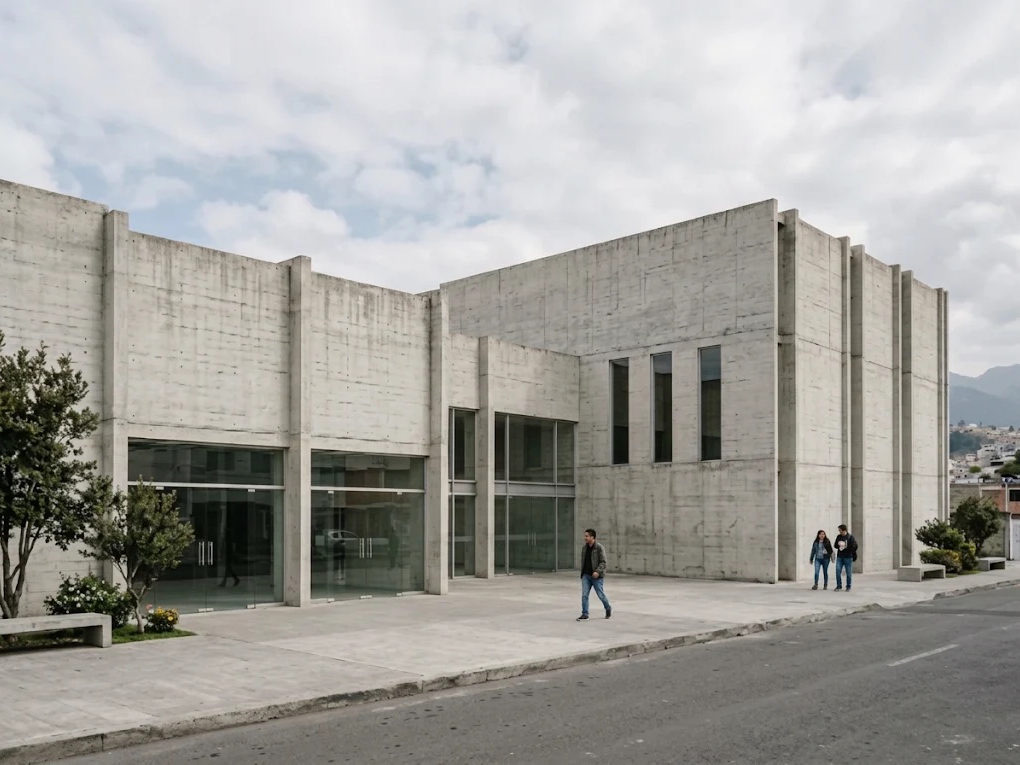
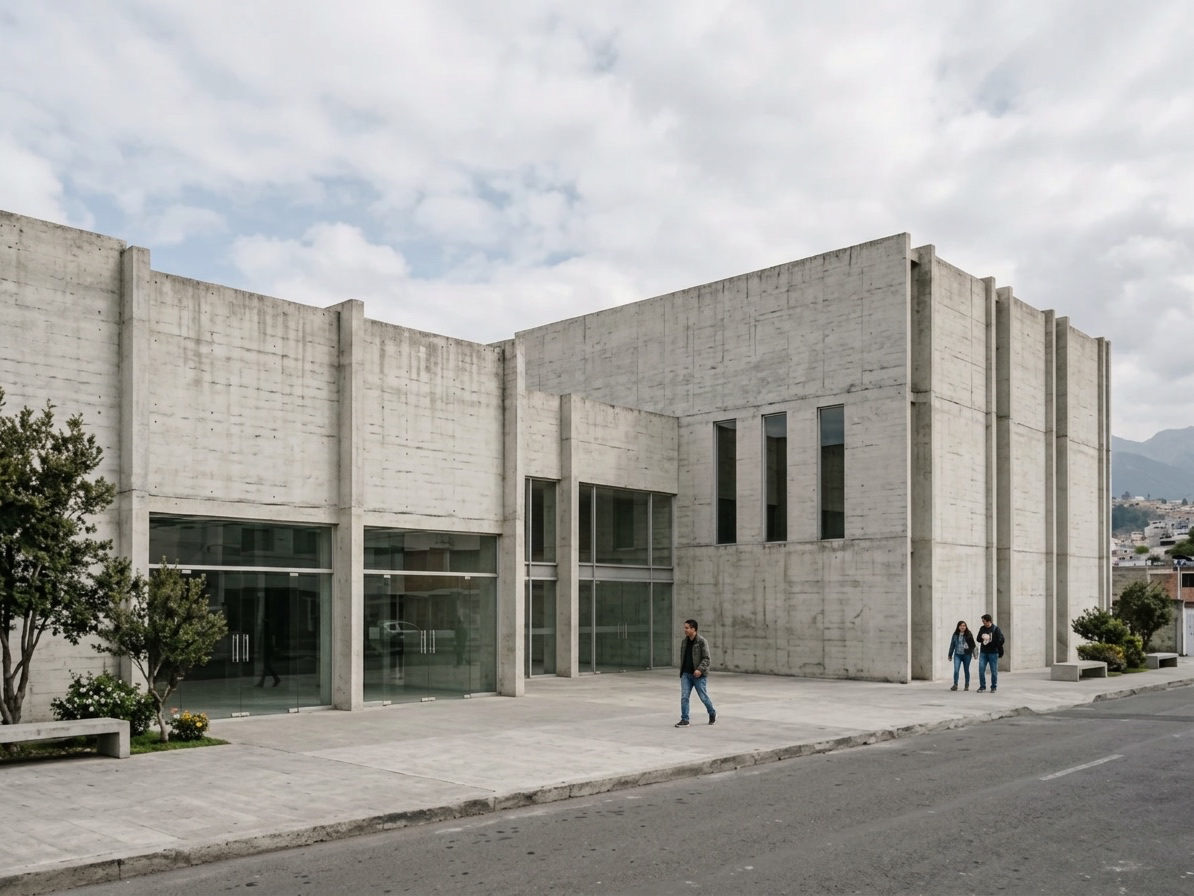
Inicio: renders anchos en las franjas de Mundaneum, Nexo y Centro Comunitario
Las franjas muestran más de cada imagen; las portadas de Diseños pasan a la versión de mejor calidad.

diff --git a/src/App.jsx b/src/App.jsx
@@ -39,10 +39,10 @@ const franjas = [
   { slug: 'casa-lt', src: '/img/casa-lt/01.jpg', pos: '50% 50%' },
   { slug: 'casa-br', src: '/img/casa-br/01.jpg', pos: '50% 50%' },
   { slug: 'colegio-mine', src: '/img/obras/colegio-mine-inicio.jpg', pos: '50% 45%' },
-  { slug: 'mundaneum-beirut', src: '/img/disenos/mundaneum-beirut-render.jpg', pos: '50% 46%' },
+  { slug: 'mundaneum-beirut', src: '/img/disenos/mundaneum-beirut-franja.jpg', pos: '50% 55%' },
   { slug: 'galeria-talleres', src: '/img/disenos/galeria-talleres-inicio.jpg', pos: '50% 45%' },
-  { slug: 'edificio-nexo', src: '/img/disenos/edificio-nexo-render.jpg', pos: '50% 55%' },
-  { slug: 'centro-comunitario', src: '/img/disenos/centro-comunitario-render.jpg', pos: '50% 40%' },
+  { slug: 'edificio-nexo', src: '/img/disenos/edificio-nexo-franja.jpg', pos: '50% 55%' },
+  { slug: 'centro-comunitario', src: '/img/disenos/centro-comunitario-franja.jpg', pos: '50% 55%' },
 ]
 
 function useRuta() {

diff --git a/CLAUDE.md b/CLAUDE.md
@@ -171,7 +171,7 @@ Los resúmenes de cada proyecto académico se escribieron a partir del texto de 
 
 ## Bitácora
 
-**2026-11-19 — sesión 9** (disco externo no conectado): **Portadas realistas de Diseños** (solo en la grilla de `#/disenos`): Joaquín las hizo él mismo en gemini.google.com (gratis) con las instrucciones de `~/Desktop/renders-portadas/PROMPTS.txt` a partir de `mundaneum-beirut/01.jpg`, `disenos/edificio-nexo.jpg` y `centro-comunitario/02.jpg` (vista del ingreso; antes la portada era la axonometría). Webp de 1024×765 → `public/img/disenos/<slug>-render.jpg` 1020×765; después Joaquín pidió verlas también en el **inicio**: las franjas de Mundaneum (`pos` 50% 46%), Edificio Nexo (50% 55%) y Centro Comunitario (50% 40%) usan ahora los `-render.jpg` (las franjas anteriores —`mundaneum-beirut.jpg`, `edificio-nexo-inicio.jpg` con la celosía de madera, `centro-comunitario/02.jpg`— quedan sin uso en el inicio). Las galerías no cambian. Galería-Talleres conserva la maqueta. La API de Gemini (clave en `~/.gemini-key`, fuera del repo) no sirve sin facturación: los modelos de imagen tienen límite 0 en el plan gratuito; Joaquín prefirió no pagar. La IA cambió algunos detalles (Nexo: bordes de losa blancos en vez de negros; Centro Comunitario: vidrio en vez de las puertas grises; Mundaneum: remate superior cerrado). **Biblioteca (T6) y Facultad de Arquitectura (T5) quitadas del portafolio** a pedido de Joaquín: datos, franjas del inicio e imágenes (`public/img/biblioteca`, `public/img/facultad-arquitectura`, portadas y franja de la Facultad) borrados; se pueden recuperar del historial de git (commit anterior a "Quitar Biblioteca y Facultad"). Diseños quedan 4: Mundaneum, Galería-Talleres, Edificio Nexo, Centro Comunitario. Lo que se dice de ambos más arriba queda solo como referencia.
+**2026-11-19 — sesión 9** (disco externo no conectado): **Portadas realistas de Diseños** (solo en la grilla de `#/disenos`): Joaquín las hizo él mismo en gemini.google.com (gratis) con las instrucciones de `~/Desktop/renders-portadas/PROMPTS.txt` a partir de `mundaneum-beirut/01.jpg`, `disenos/edificio-nexo.jpg` y `centro-comunitario/02.jpg` (vista del ingreso; antes la portada era la axonometría). Webp de 1024×765 → `public/img/disenos/<slug>-render.jpg` 1020×765; después Joaquín pidió verlas también en el **inicio**: como las franjas (4:1) recortaban demasiado los renders 4:3, Joaquín pidió a Gemini versiones **anchas** (21:9, 1584×672: `~/Desktop/renders-portadas/<nombre> portada.jpeg`) → `public/img/disenos/<slug>-franja.jpg`, `pos` 50% 55% las tres; la de Mundaneum recortada 200 px a la izquierda para que se vea menos la mezquita (Joaquín: "se ve muy bien como está"). Las portadas de la grilla (`-render.jpg`) se reemplazaron por las versiones de 1200×896 (`Mundaneum.jpeg`, `nexo.jpeg`, `centro comunitario.jpeg`), recortadas a 1194×896. Las galerías no cambian. Galería-Talleres conserva la maqueta. La API de Gemini (clave en `~/.gemini-key`, fuera del repo) no sirve sin facturación: los modelos de imagen tienen límite 0 en el plan gratuito; Joaquín prefirió no pagar. La IA cambió algunos detalles (Nexo: bordes de losa blancos en vez de negros; Centro Comunitario: vidrio en vez de las puertas grises; Mundaneum: remate superior cerrado). **Biblioteca (T6) y Facultad de Arquitectura (T5) quitadas del portafolio** a pedido de Joaquín: datos, franjas del inicio e imágenes (`public/img/biblioteca`, `public/img/facultad-arquitectura`, portadas y franja de la Facultad) borrados; se pueden recuperar del historial de git (commit anterior a "Quitar Biblioteca y Facultad"). Diseños quedan 4: Mundaneum, Galería-Talleres, Edificio Nexo, Centro Comunitario. Lo que se dice de ambos más arriba queda solo como referencia.
 
 **2026-11-18 — sesión 8** (disco externo no conectado): Casa LT, fotos 05–08 marcadas como obra y celosías metálicas; página de Contacto rehecha minimalista y sin scroll (la versión grande con líneas no le gustó). Sobre mí: orden del software cambiado (Office, Illustrator, Photoshop). CLAUDE.md no se pudo copiar al disco externo (no conectado): copiarlo en la próxima sesión con disco. Joaquín decidió: dejar las axonometrías de Nexo, las portadas de Diseños y Mundaneum como están (pendientes 1–3 cerrados).
 
